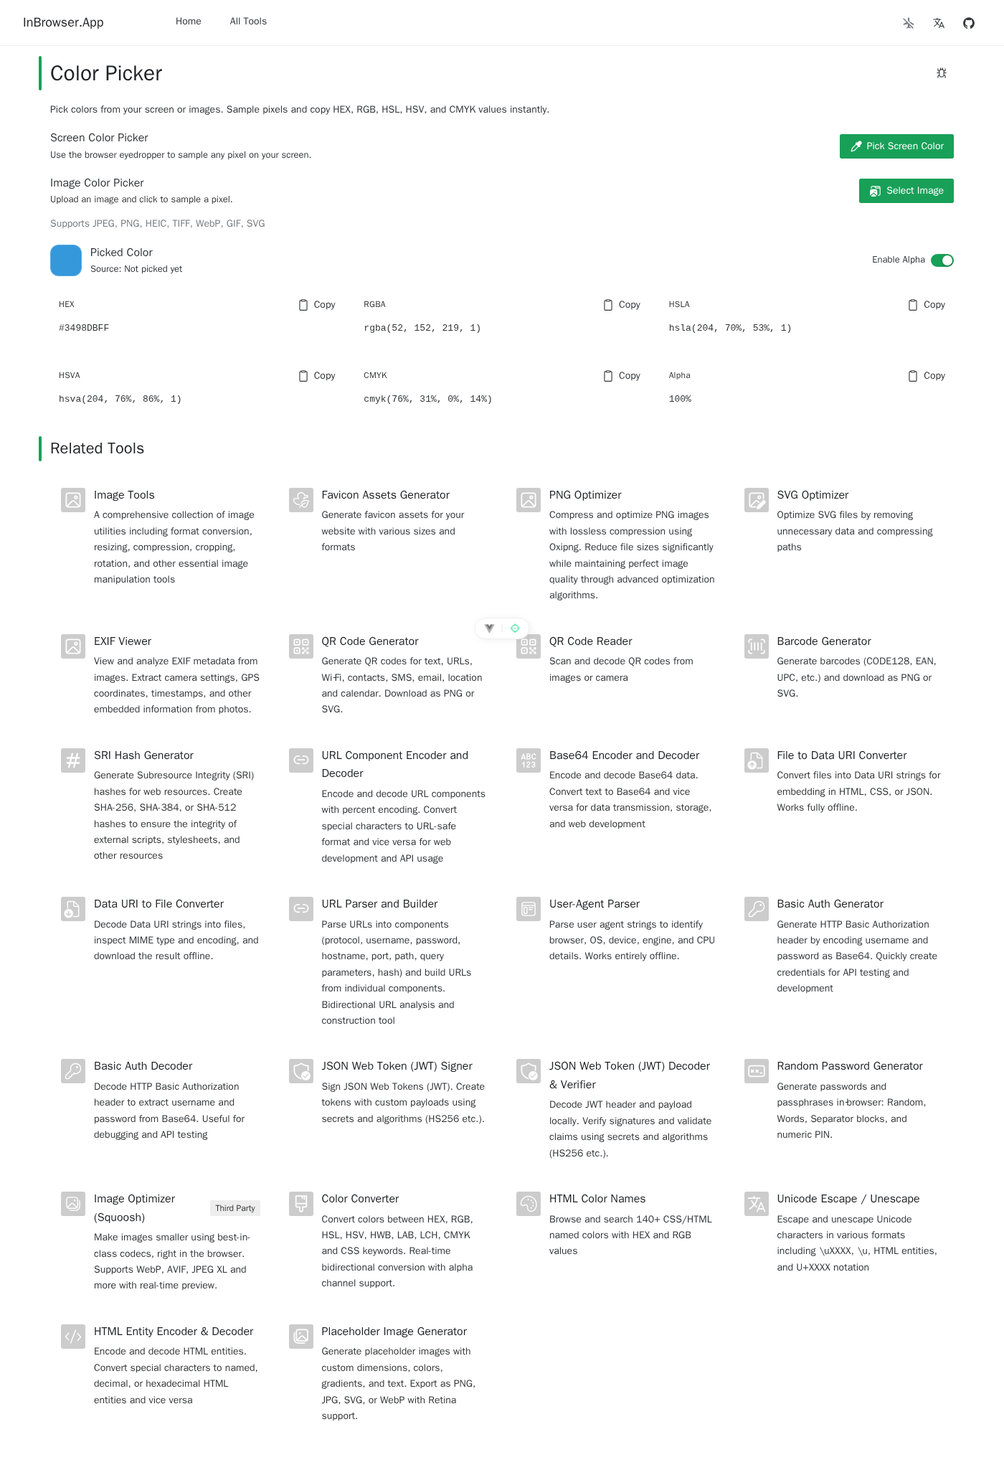
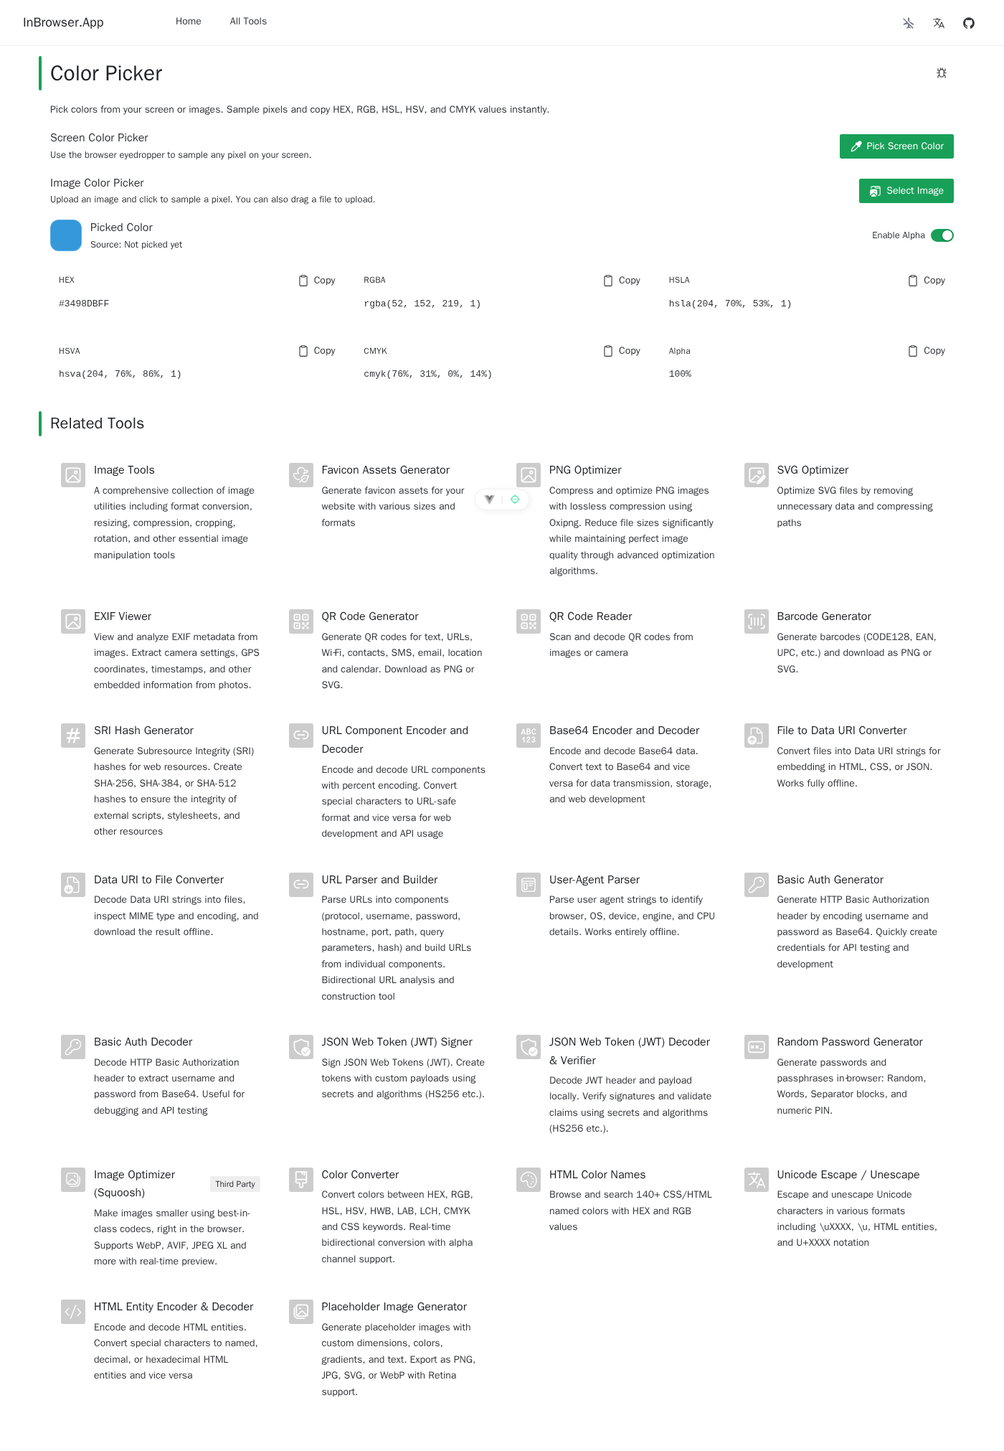
chore(tools): refresh color picker copy

diff --git a/tools/web/color-picker/src/components/ColorPickerTool.vue b/tools/web/color-picker/src/components/ColorPickerTool.vue
@@ -46,7 +46,6 @@
           </n-button>
         </div>
       </n-flex>
-      <n-text depth="3">{{ t('uploadFormats') }}</n-text>
       <n-alert v-if="imageError" type="error" :show-icon="false">
         {{ imageError }}
       </n-alert>
@@ -99,7 +98,6 @@
         </n-icon>
         <div class="drop-title">{{ t('imageTitle') }}</div>
         <div class="drop-subtitle">{{ t('uploadHint') }}</div>
-        <div class="drop-meta">{{ t('uploadFormats') }}</div>
       </div>
     </div>
   </Teleport>
@@ -109,7 +107,7 @@
 import { computed, onBeforeUnmount, onMounted, ref } from 'vue'
 import { useI18n } from 'vue-i18n'
 import { useDropZone, useElementSize, useStorage } from '@vueuse/core'
-import { NAlert, NButton, NFlex, NGrid, NGi, NIcon, NText, NSwitch } from 'naive-ui'
+import { NAlert, NButton, NFlex, NGrid, NGi, NIcon, NSwitch } from 'naive-ui'
 import {
   Eyedropper24Filled as EyedropperIcon,
   TabDesktopImage16Regular as ImagePickIcon,
@@ -500,12 +498,6 @@ onBeforeUnmount(() => {
   color: var(--n-text-color-3);
 }
 
-.drop-meta {
-  margin-top: 10px;
-  font-size: 12px;
-  color: var(--n-text-color-3);
-}
-
 .file-input {
   display: none;
 }
@@ -568,12 +560,11 @@ onBeforeUnmount(() => {
     "screenButton": "Pick Screen Color",
     "screenUnsupported": "Screen color picking is not supported in this browser.",
     "imageTitle": "Image Color Picker",
-    "imageDescription": "Upload an image and click to sample a pixel.",
+    "imageDescription": "Upload an image and click to sample a pixel. You can also drag a file to upload.",
     "imageButton": "Select Image",
     "imageHint": "Click the image to pick a color.",
     "imageError": "Failed to load the image.",
     "uploadHint": "Click or drag image to upload",
-    "uploadFormats": "Supports JPEG, PNG, HEIC, TIFF, WebP, GIF, SVG",
     "pickedTitle": "Picked Color",
     "sourceLabel": "Source",
     "sourceScreen": "Screen",
@@ -596,12 +587,11 @@ onBeforeUnmount(() => {
     "screenButton": "取屏幕颜色",
     "screenUnsupported": "当前浏览器不支持屏幕取色。",
     "imageTitle": "图片取色",
-    "imageDescription": "上传图片并点击以采样像素。",
+    "imageDescription": "上传图片并点击以采样像素。也可拖拽文件上传。",
     "imageButton": "选择图片",
     "imageHint": "点击图片取色。",
     "imageError": "图片加载失败。",
     "uploadHint": "点击或拖拽图片上传",
-    "uploadFormats": "支持 JPEG、PNG、HEIC、TIFF、WebP、GIF、SVG",
     "pickedTitle": "已取颜色",
     "sourceLabel": "来源",
     "sourceScreen": "屏幕",
@@ -624,12 +614,11 @@ onBeforeUnmount(() => {
     "screenButton": "取屏幕颜色",
     "screenUnsupported": "当前浏览器不支持屏幕取色。",
     "imageTitle": "图片取色",
-    "imageDescription": "上传图片并点击以采样像素。",
+    "imageDescription": "上传图片并点击以采样像素。也可拖拽文件上传。",
     "imageButton": "选择图片",
     "imageHint": "点击图片取色。",
     "imageError": "图片加载失败。",
     "uploadHint": "点击或拖拽图片上传",
-    "uploadFormats": "支持 JPEG、PNG、HEIC、TIFF、WebP、GIF、SVG",
     "pickedTitle": "已取颜色",
     "sourceLabel": "来源",
     "sourceScreen": "屏幕",
@@ -652,12 +641,11 @@ onBeforeUnmount(() => {
     "screenButton": "取螢幕顏色",
     "screenUnsupported": "此瀏覽器不支援螢幕取色。",
     "imageTitle": "圖片取色",
-    "imageDescription": "上傳圖片並點擊以取樣像素。",
+    "imageDescription": "上傳圖片並點擊以取樣像素。也可拖曳檔案上傳。",
     "imageButton": "選擇圖片",
     "imageHint": "點擊圖片取色。",
     "imageError": "圖片載入失敗。",
     "uploadHint": "點擊或拖曳圖片上傳",
-    "uploadFormats": "支援 JPEG、PNG、HEIC、TIFF、WebP、GIF、SVG",
     "pickedTitle": "已取顏色",
     "sourceLabel": "來源",
     "sourceScreen": "螢幕",
@@ -680,12 +668,11 @@ onBeforeUnmount(() => {
     "screenButton": "取螢幕顏色",
     "screenUnsupported": "此瀏覽器不支援螢幕取色。",
     "imageTitle": "圖片取色",
-    "imageDescription": "上傳圖片並點擊以取樣像素。",
+    "imageDescription": "上傳圖片並點擊以取樣像素。也可拖曳檔案上傳。",
     "imageButton": "選擇圖片",
     "imageHint": "點擊圖片取色。",
     "imageError": "圖片載入失敗。",
     "uploadHint": "點擊或拖曳圖片上傳",
-    "uploadFormats": "支援 JPEG、PNG、HEIC、TIFF、WebP、GIF、SVG",
     "pickedTitle": "已取顏色",
     "sourceLabel": "來源",
     "sourceScreen": "螢幕",
@@ -708,12 +695,11 @@ onBeforeUnmount(() => {
     "screenButton": "Tomar color de pantalla",
     "screenUnsupported": "La selección de color de pantalla no es compatible con este navegador.",
     "imageTitle": "Selector de color de imagen",
-    "imageDescription": "Sube una imagen y haz clic para muestrear un píxel.",
+    "imageDescription": "Sube una imagen y haz clic para muestrear un píxel. También puedes arrastrar un archivo para cargar.",
     "imageButton": "Seleccionar imagen",
     "imageHint": "Haz clic en la imagen para tomar un color.",
     "imageError": "No se pudo cargar la imagen.",
     "uploadHint": "Haga clic o arrastre la imagen para cargar",
-    "uploadFormats": "Soporta JPEG, PNG, HEIC, TIFF, WebP, GIF, SVG",
     "pickedTitle": "Color seleccionado",
     "sourceLabel": "Origen",
     "sourceScreen": "Pantalla",
@@ -736,12 +722,11 @@ onBeforeUnmount(() => {
     "screenButton": "Prendre la couleur de l’écran",
     "screenUnsupported": "La sélection de couleur à l’écran n’est pas prise en charge dans ce navigateur.",
     "imageTitle": "Pipette de couleur d’image",
-    "imageDescription": "Téléchargez une image et cliquez pour échantillonner un pixel.",
+    "imageDescription": "Téléchargez une image et cliquez pour échantillonner un pixel. Vous pouvez aussi glisser un fichier pour le téléverser.",
     "imageButton": "Sélectionner une image",
     "imageHint": "Cliquez sur l’image pour choisir une couleur.",
     "imageError": "Échec du chargement de l’image.",
     "uploadHint": "Cliquez ou déposez l'image pour télécharger",
-    "uploadFormats": "Prend en charge JPEG, PNG, HEIC, TIFF, WebP, GIF, SVG",
     "pickedTitle": "Couleur sélectionnée",
     "sourceLabel": "Source",
     "sourceScreen": "Écran",
@@ -764,12 +749,11 @@ onBeforeUnmount(() => {
     "screenButton": "Bildschirmfarbe wählen",
     "screenUnsupported": "Bildschirm-Farbaufnahme wird in diesem Browser nicht unterstützt.",
     "imageTitle": "Bild-Farbpipette",
-    "imageDescription": "Laden Sie ein Bild hoch und klicken Sie, um ein Pixel zu sampeln.",
+    "imageDescription": "Laden Sie ein Bild hoch und klicken Sie, um ein Pixel zu sampeln. Sie können eine Datei auch per Drag-and-drop hochladen.",
     "imageButton": "Bild auswählen",
     "imageHint": "Klicken Sie auf das Bild, um eine Farbe zu wählen.",
     "imageError": "Bild konnte nicht geladen werden.",
     "uploadHint": "Klicken oder Bild hierher ziehen",
-    "uploadFormats": "Unterstützt JPEG, PNG, HEIC, TIFF, WebP, GIF, SVG",
     "pickedTitle": "Ausgewählte Farbe",
     "sourceLabel": "Quelle",
     "sourceScreen": "Bildschirm",
@@ -792,12 +776,11 @@ onBeforeUnmount(() => {
     "screenButton": "Scegli colore dallo schermo",
     "screenUnsupported": "Il prelievo colore dallo schermo non è supportato in questo browser.",
     "imageTitle": "Contagocce immagine",
-    "imageDescription": "Carica un'immagine e fai clic per campionare un pixel.",
+    "imageDescription": "Carica un'immagine e fai clic per campionare un pixel. Puoi anche trascinare un file per caricarlo.",
     "imageButton": "Seleziona immagine",
     "imageHint": "Fai clic sull'immagine per scegliere un colore.",
     "imageError": "Impossibile caricare l'immagine.",
     "uploadHint": "Clicca o trascina l'immagine per caricarla",
-    "uploadFormats": "Supporta JPEG, PNG, HEIC, TIFF, WebP, GIF, SVG",
     "pickedTitle": "Colore selezionato",
     "sourceLabel": "Fonte",
     "sourceScreen": "Schermo",
@@ -820,12 +803,11 @@ onBeforeUnmount(() => {
     "screenButton": "画面の色を取得",
     "screenUnsupported": "このブラウザでは画面の色取得はサポートされていません。",
     "imageTitle": "画像カラーピッカー",
-    "imageDescription": "画像をアップロードしてクリックし、ピクセルをサンプルします。",
+    "imageDescription": "画像をアップロードしてクリックし、ピクセルをサンプルします。ファイルをドラッグしてアップロードすることもできます。",
     "imageButton": "画像を選択",
     "imageHint": "画像をクリックして色を取得します。",
     "imageError": "画像の読み込みに失敗しました。",
     "uploadHint": "クリックまたは画像をドラッグしてアップロード",
-    "uploadFormats": "JPEG、PNG、HEIC、TIFF、WebP、GIF、SVG をサポート",
     "pickedTitle": "取得した色",
     "sourceLabel": "ソース",
     "sourceScreen": "画面",
@@ -848,12 +830,11 @@ onBeforeUnmount(() => {
     "screenButton": "화면 색상 선택",
     "screenUnsupported": "이 브라우저는 화면 색상 선택을 지원하지 않습니다.",
     "imageTitle": "이미지 색상 선택기",
-    "imageDescription": "이미지를 업로드하고 클릭해 픽셀을 샘플링하세요.",
+    "imageDescription": "이미지를 업로드하고 클릭해 픽셀을 샘플링하세요. 파일을 끌어다 놓아 업로드할 수도 있습니다.",
     "imageButton": "이미지 선택",
     "imageHint": "이미지를 클릭해 색상을 선택하세요.",
     "imageError": "이미지를 불러오지 못했습니다.",
     "uploadHint": "클릭하거나 이미지를 드래그하여 업로드",
-    "uploadFormats": "JPEG, PNG, HEIC, TIFF, WebP, GIF, SVG 지원",
     "pickedTitle": "선택된 색상",
     "sourceLabel": "출처",
     "sourceScreen": "화면",
@@ -876,12 +857,11 @@ onBeforeUnmount(() => {
     "screenButton": "Выбрать цвет с экрана",
     "screenUnsupported": "Выбор цвета с экрана не поддерживается в этом браузере.",
     "imageTitle": "Пипетка изображения",
-    "imageDescription": "Загрузите изображение и щёлкните, чтобы выбрать пиксель.",
+    "imageDescription": "Загрузите изображение и щёлкните, чтобы выбрать пиксель. Также можно перетащить файл для загрузки.",
     "imageButton": "Выбрать изображение",
     "imageHint": "Нажмите на изображение, чтобы выбрать цвет.",
     "imageError": "Не удалось загрузить изображение.",
     "uploadHint": "Нажмите или перетащите изображение для загрузки",
-    "uploadFormats": "Поддерживает JPEG, PNG, HEIC, TIFF, WebP, GIF, SVG",
     "pickedTitle": "Выбранный цвет",
     "sourceLabel": "Источник",
     "sourceScreen": "Экран",
@@ -904,12 +884,11 @@ onBeforeUnmount(() => {
     "screenButton": "Capturar cor da tela",
     "screenUnsupported": "A captura de cor da tela não é suportada neste navegador.",
     "imageTitle": "Seletor de cor da imagem",
-    "imageDescription": "Envie uma imagem e clique para amostrar um pixel.",
+    "imageDescription": "Envie uma imagem e clique para amostrar um pixel. Você também pode arrastar um arquivo para enviar.",
     "imageButton": "Selecionar imagem",
     "imageHint": "Clique na imagem para escolher uma cor.",
     "imageError": "Falha ao carregar a imagem.",
     "uploadHint": "Clique ou arraste a imagem para fazer upload",
-    "uploadFormats": "Suporta JPEG, PNG, HEIC, TIFF, WebP, GIF, SVG",
     "pickedTitle": "Cor selecionada",
     "sourceLabel": "Origem",
     "sourceScreen": "Tela",
@@ -932,12 +911,11 @@ onBeforeUnmount(() => {
     "screenButton": "التقاط لون الشاشة",
     "screenUnsupported": "التقاط ألوان الشاشة غير مدعوم في هذا المتصفح.",
     "imageTitle": "منتقي ألوان الصورة",
-    "imageDescription": "ارفع صورة وانقر لأخذ عيّنة بكسل.",
+    "imageDescription": "ارفع صورة وانقر لأخذ عيّنة بكسل. يمكنك أيضًا سحب ملف للتحميل.",
     "imageButton": "اختر صورة",
     "imageHint": "انقر على الصورة لالتقاط لون.",
     "imageError": "تعذر تحميل الصورة.",
     "uploadHint": "انقر أو اسحب الصورة للتحميل",
-    "uploadFormats": "يدعم JPEG، PNG، HEIC، TIFF، WebP، GIF، SVG",
     "pickedTitle": "اللون المختار",
     "sourceLabel": "المصدر",
     "sourceScreen": "الشاشة",
@@ -960,12 +938,11 @@ onBeforeUnmount(() => {
     "screenButton": "स्क्रीन रंग चुनें",
     "screenUnsupported": "इस ब्राउज़र में स्क्रीन रंग चुनना समर्थित नहीं है।",
     "imageTitle": "इमेज कलर पिकर",
-    "imageDescription": "छवि अपलोड करें और पिक्सेल सैंपल करने के लिए क्लिक करें।",
+    "imageDescription": "छवि अपलोड करें और पिक्सेल सैंपल करने के लिए क्लिक करें। आप अपलोड के लिए फ़ाइल खींच भी सकते हैं।",
     "imageButton": "चित्र चुनें",
     "imageHint": "रंग चुनने के लिए छवि पर क्लिक करें।",
     "imageError": "छवि लोड नहीं हो सकी।",
     "uploadHint": "अपलोड करने के लिए क्लिक करें या छवि खींचें",
-    "uploadFormats": "JPEG, PNG, HEIC, TIFF, WebP, GIF, SVG समर्थित",
     "pickedTitle": "चुना गया रंग",
     "sourceLabel": "स्रोत",
     "sourceScreen": "स्क्रीन",
@@ -988,12 +965,11 @@ onBeforeUnmount(() => {
     "screenButton": "Ekran Rengi Seç",
     "screenUnsupported": "Bu tarayıcıda ekran renk seçimi desteklenmiyor.",
     "imageTitle": "Görsel Renk Seçici",
-    "imageDescription": "Bir görsel yükleyin ve bir pikseli örneklemek için tıklayın.",
+    "imageDescription": "Bir görsel yükleyin ve bir pikseli örneklemek için tıklayın. Dosya sürükleyerek de yükleyebilirsiniz.",
     "imageButton": "Görsel seç",
     "imageHint": "Renk seçmek için görsele tıklayın.",
     "imageError": "Görsel yüklenemedi.",
     "uploadHint": "Yüklemek için tıklayın veya görüntüyü sürükleyin",
-    "uploadFormats": "JPEG, PNG, HEIC, TIFF, WebP, GIF, SVG desteklenir",
     "pickedTitle": "Seçilen Renk",
     "sourceLabel": "Kaynak",
     "sourceScreen": "Ekran",
@@ -1016,12 +992,11 @@ onBeforeUnmount(() => {
     "screenButton": "Schermkleur kiezen",
     "screenUnsupported": "Schermkleur kiezen wordt niet ondersteund in deze browser.",
     "imageTitle": "Afbeeldingskleurpipet",
-    "imageDescription": "Upload een afbeelding en klik om een pixel te samplen.",
+    "imageDescription": "Upload een afbeelding en klik om een pixel te samplen. Je kunt ook een bestand slepen om te uploaden.",
     "imageButton": "Afbeelding kiezen",
     "imageHint": "Klik op de afbeelding om een kleur te kiezen.",
     "imageError": "Afbeelding laden mislukt.",
     "uploadHint": "Klik of sleep afbeelding om te uploaden",
-    "uploadFormats": "Ondersteunt JPEG, PNG, HEIC, TIFF, WebP, GIF, SVG",
     "pickedTitle": "Geselecteerde kleur",
     "sourceLabel": "Bron",
     "sourceScreen": "Scherm",
@@ -1044,12 +1019,11 @@ onBeforeUnmount(() => {
     "screenButton": "Välj skärmfärg",
     "screenUnsupported": "Skärmfärgväljning stöds inte i den här webbläsaren.",
     "imageTitle": "Bildfärgväljare",
-    "imageDescription": "Ladda upp en bild och klicka för att sampla en pixel.",
+    "imageDescription": "Ladda upp en bild och klicka för att sampla en pixel. Du kan också dra en fil för att ladda upp.",
     "imageButton": "Välj bild",
     "imageHint": "Klicka på bilden för att välja en färg.",
     "imageError": "Kunde inte läsa in bilden.",
     "uploadHint": "Klicka eller dra bild för att ladda upp",
-    "uploadFormats": "Stöder JPEG, PNG, HEIC, TIFF, WebP, GIF, SVG",
     "pickedTitle": "Vald färg",
     "sourceLabel": "Källa",
     "sourceScreen": "Skärm",
@@ -1072,12 +1046,11 @@ onBeforeUnmount(() => {
     "screenButton": "Pobierz kolor z ekranu",
     "screenUnsupported": "Pobieranie koloru z ekranu nie jest obsługiwane w tej przeglądarce.",
     "imageTitle": "Pipeta obrazu",
-    "imageDescription": "Prześlij obraz i kliknij, aby pobrać piksel.",
+    "imageDescription": "Prześlij obraz i kliknij, aby pobrać piksel. Możesz też przeciągnąć plik, aby przesłać.",
     "imageButton": "Wybierz obraz",
     "imageHint": "Kliknij obraz, aby wybrać kolor.",
     "imageError": "Nie udało się wczytać obrazu.",
     "uploadHint": "Kliknij lub przeciągnij obraz, aby przesłać",
-    "uploadFormats": "Obsługuje JPEG, PNG, HEIC, TIFF, WebP, GIF, SVG",
     "pickedTitle": "Wybrany kolor",
     "sourceLabel": "Źródło",
     "sourceScreen": "Ekran",
@@ -1100,12 +1073,11 @@ onBeforeUnmount(() => {
     "screenButton": "Chọn màu màn hình",
     "screenUnsupported": "Trình duyệt này không hỗ trợ chọn màu màn hình.",
     "imageTitle": "Bộ chọn màu từ ảnh",
-    "imageDescription": "Tải ảnh lên và nhấp để lấy mẫu pixel.",
+    "imageDescription": "Tải ảnh lên và nhấp để lấy mẫu pixel. Bạn cũng có thể kéo thả tệp để tải lên.",
     "imageButton": "Chọn ảnh",
     "imageHint": "Nhấp vào ảnh để chọn màu.",
     "imageError": "Không thể tải ảnh.",
     "uploadHint": "Nhấp hoặc kéo hình ảnh để tải lên",
-    "uploadFormats": "Hỗ trợ JPEG, PNG, HEIC, TIFF, WebP, GIF, SVG",
     "pickedTitle": "Màu đã chọn",
     "sourceLabel": "Nguồn",
     "sourceScreen": "Màn hình",
@@ -1128,12 +1100,11 @@ onBeforeUnmount(() => {
     "screenButton": "เลือกสีจากหน้าจอ",
     "screenUnsupported": "เบราว์เซอร์นี้ไม่รองรับการเลือกสีจากหน้าจอ",
     "imageTitle": "ตัวเลือกสีจากภาพ",
-    "imageDescription": "อัปโหลดภาพแล้วคลิกเพื่อสุ่มตัวอย่างพิกเซล",
+    "imageDescription": "อัปโหลดภาพแล้วคลิกเพื่อสุ่มตัวอย่างพิกเซล คุณยังลากไฟล์เพื่ออัปโหลดได้ด้วย",
     "imageButton": "เลือกภาพ",
     "imageHint": "คลิกที่ภาพเพื่อเลือกสี",
     "imageError": "โหลดภาพไม่สำเร็จ",
     "uploadHint": "คลิกหรือลากภาพเพื่ออัปโหลด",
-    "uploadFormats": "รองรับ JPEG, PNG, HEIC, TIFF, WebP, GIF, SVG",
     "pickedTitle": "สีที่เลือก",
     "sourceLabel": "แหล่งที่มา",
     "sourceScreen": "หน้าจอ",
@@ -1156,12 +1127,11 @@ onBeforeUnmount(() => {
     "screenButton": "Pilih warna layar",
     "screenUnsupported": "Pemilihan warna layar tidak didukung di browser ini.",
     "imageTitle": "Pemilih warna gambar",
-    "imageDescription": "Unggah gambar dan klik untuk mengambil sampel piksel.",
+    "imageDescription": "Unggah gambar dan klik untuk mengambil sampel piksel. Anda juga dapat menyeret file untuk mengunggah.",
     "imageButton": "Pilih gambar",
     "imageHint": "Klik gambar untuk memilih warna.",
     "imageError": "Gagal memuat gambar.",
     "uploadHint": "Klik atau seret gambar untuk mengunggah",
-    "uploadFormats": "Mendukung JPEG, PNG, HEIC, TIFF, WebP, GIF, SVG",
     "pickedTitle": "Warna terpilih",
     "sourceLabel": "Sumber",
     "sourceScreen": "Layar",
@@ -1184,12 +1154,11 @@ onBeforeUnmount(() => {
     "screenButton": "בחר צבע מהמסך",
     "screenUnsupported": "בחירת צבע מהמסך אינה נתמכת בדפדפן זה.",
     "imageTitle": "בוחר צבע מתמונה",
-    "imageDescription": "העלה תמונה ולחץ כדי לדגום פיקסל.",
+    "imageDescription": "העלה תמונה ולחץ כדי לדגום פיקסל. אפשר גם לגרור קובץ כדי להעלות.",
     "imageButton": "בחר תמונה",
     "imageHint": "לחץ על התמונה כדי לבחור צבע.",
     "imageError": "טעינת התמונה נכשלה.",
     "uploadHint": "לחץ או גרור תמונה להעלאה",
-    "uploadFormats": "תומך ב-JPEG, PNG, HEIC, TIFF, WebP, GIF, SVG",
     "pickedTitle": "צבע שנבחר",
     "sourceLabel": "מקור",
     "sourceScreen": "מסך",
@@ -1212,12 +1181,11 @@ onBeforeUnmount(() => {
     "screenButton": "Pilih warna skrin",
     "screenUnsupported": "Pemilihan warna skrin tidak disokong dalam pelayar ini.",
     "imageTitle": "Pemilih warna imej",
-    "imageDescription": "Muat naik imej dan klik untuk mengambil sampel piksel.",
+    "imageDescription": "Muat naik imej dan klik untuk mengambil sampel piksel. Anda juga boleh menyeret fail untuk dimuat naik.",
     "imageButton": "Pilih imej",
     "imageHint": "Klik imej untuk memilih warna.",
     "imageError": "Gagal memuatkan imej.",
     "uploadHint": "Klik atau seret imej untuk muat naik",
-    "uploadFormats": "Menyokong JPEG, PNG, HEIC, TIFF, WebP, GIF, SVG",
     "pickedTitle": "Warna dipilih",
     "sourceLabel": "Sumber",
     "sourceScreen": "Skrin",
@@ -1240,12 +1208,11 @@ onBeforeUnmount(() => {
     "screenButton": "Velg skjermfarge",
     "screenUnsupported": "Skjermfargevelging støttes ikke i denne nettleseren.",
     "imageTitle": "Bildefargevelger",
-    "imageDescription": "Last opp et bilde og klikk for å prøve en piksel.",
+    "imageDescription": "Last opp et bilde og klikk for å prøve en piksel. Du kan også dra en fil for å laste opp.",
     "imageButton": "Velg bilde",
     "imageHint": "Klikk på bildet for å velge en farge.",
     "imageError": "Kunne ikke laste bildet.",
     "uploadHint": "Klikk eller dra bilde for å laste opp",
-    "uploadFormats": "Støtter JPEG, PNG, HEIC, TIFF, WebP, GIF, SVG",
     "pickedTitle": "Valgt farge",
     "sourceLabel": "Kilde",
     "sourceScreen": "Skjerm",
